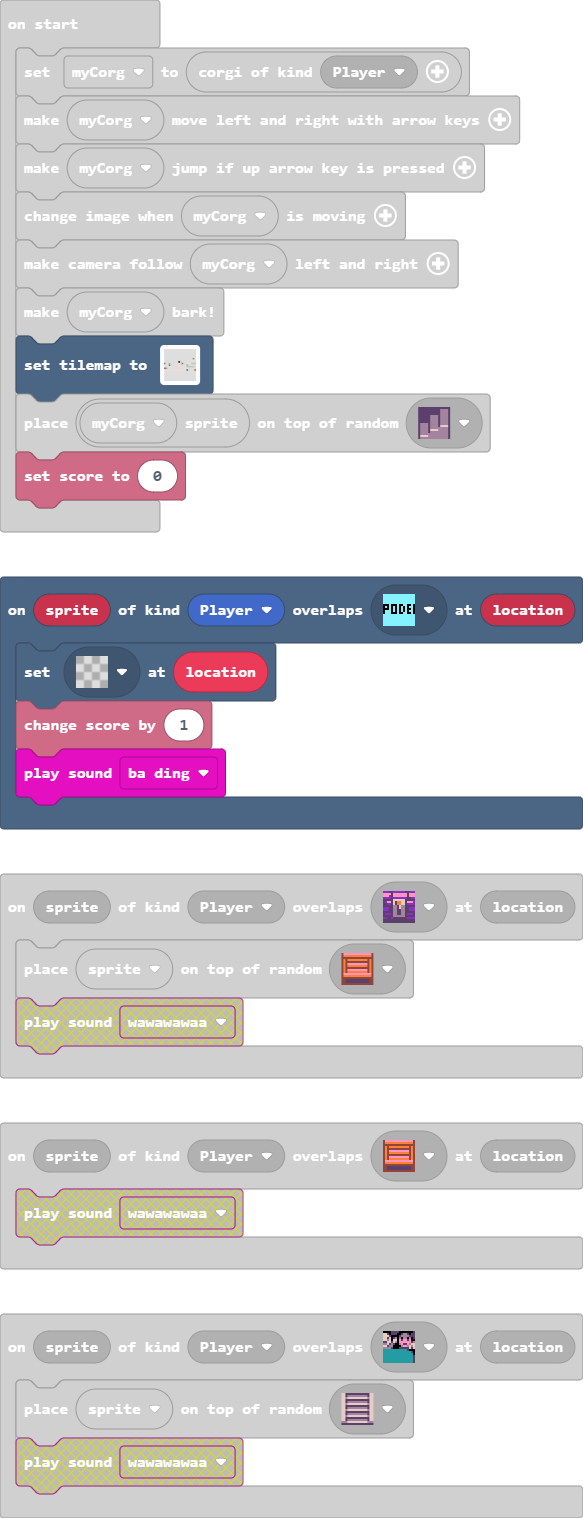
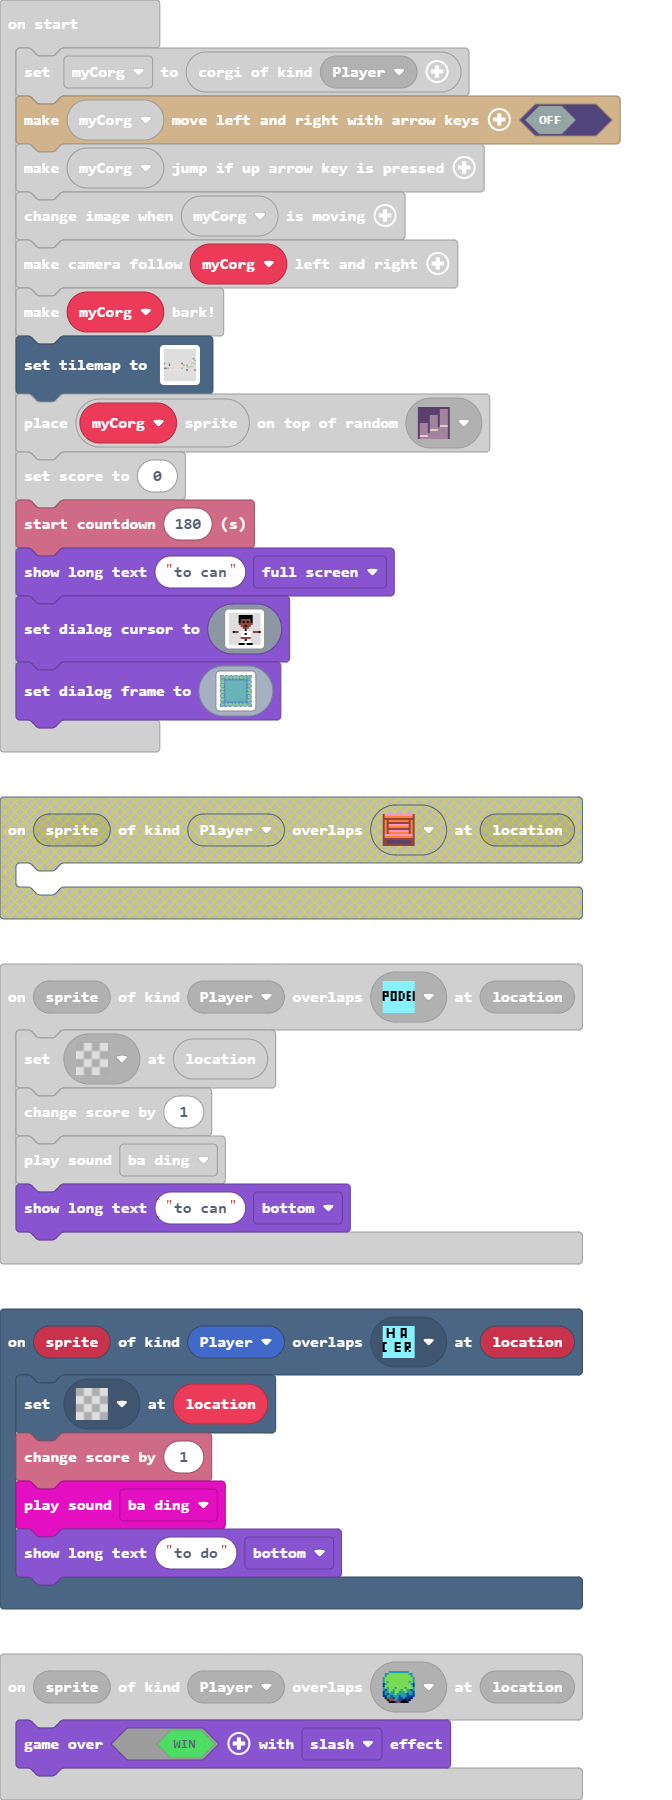
Update main.blocks, main.ts, tilemap.g.jres, tilemap.g.ts

diff --git a/main.ts b/main.ts
@@ -1,8 +1,11 @@
-scene.onOverlapTile(SpriteKind.Player, sprites.dungeon.stairLadder, function (sprite, location) {
-	
+scene.onOverlapTile(SpriteKind.Player, myTiles.tile2, function (sprite, location) {
+    tiles.setTileAt(location, myTiles.transparency16)
+    info.changeScoreBy(1)
+    music.baDing.play()
+    game.showLongText("to do", DialogLayout.Bottom)
 })
 scene.onOverlapTile(SpriteKind.Player, sprites.builtin.forestTiles0, function (sprite, location) {
-    game.over(true, effects.smiles)
+    game.over(true, effects.slash)
 })
 scene.onOverlapTile(SpriteKind.Player, sprites.dungeon.purpleSwitchUp, function (sprite, location) {
     tiles.placeOnRandomTile(sprite, sprites.dungeon.stairLadder)
@@ -11,6 +14,7 @@ scene.onOverlapTile(SpriteKind.Player, myTiles.tile1, function (sprite, location
     tiles.setTileAt(location, myTiles.transparency16)
     info.changeScoreBy(1)
     music.baDing.play()
+    game.showLongText("to can", DialogLayout.Bottom)
 })
 scene.onOverlapTile(SpriteKind.Player, sprites.builtin.crowd1, function (sprite, location) {
     tiles.placeOnRandomTile(sprite, sprites.dungeon.stairNorth)
@@ -21,7 +25,7 @@ myCorg.verticalMovement()
 myCorg.updateSprite()
 myCorg.follow()
 myCorg.bark()
[2 lines of base64/hex data omitted]
     . . . . . . . . . . . . . . . . . . . 2 
     . . . . . . . . . . . . . . . 2 2 2 2 . 
     . . . . . . . . . . . . . . 2 2 . . . . 
@@ -30,6 +34,76 @@ tiles.setTilemap(tiles.createTilemap(hex`140008000000000000000000000000000000000
     2 2 2 2 2 . . . 2 2 2 2 2 2 2 2 2 2 2 . 
     . . . . . . 2 . . . . . 2 2 . . . . . . 
     2 2 2 2 2 2 2 2 2 2 2 2 2 2 . . . . . 2 
-    `, [myTiles.tile0,sprites.builtin.brick,sprites.builtin.forestTiles0,sprites.dungeon.stairLarge,sprites.castle.rock0,sprites.castle.shrub,sprites.dungeon.stairLadder,myTiles.transparency16,sprites.dungeon.purpleSwitchUp,sprites.dungeon.stairNorth,sprites.builtin.crowd1,myTiles.tile1,sprites.castle.tilePath9], TileScale.Sixteen))
+    `, [myTiles.tile0,sprites.builtin.brick,sprites.builtin.forestTiles0,sprites.dungeon.stairLarge,sprites.castle.rock0,sprites.castle.shrub,sprites.dungeon.stairLadder,sprites.dungeon.purpleSwitchUp,sprites.dungeon.stairNorth,sprites.builtin.crowd1,myTiles.tile1,sprites.castle.tilePath9,myTiles.tile2], TileScale.Sixteen))
 tiles.placeOnRandomTile(myCorg.sprite, sprites.dungeon.stairLarge)
 info.setScore(0)
+info.startCountdown(180)
+game.showLongText("to can", DialogLayout.Full)
+game.setDialogCursor(img`
+    . . . . . . . . . . . . . . . . 
+    . . . . . f f f f f f f . . . . 
+    . . . . . f f f f f f f . . . . 
+    . . . . . f e e e e e f . . . . 
+    . . . . . f e f e f e f . . . . 
+    . . . . . e e e e e e e . . . . 
+    . . . . . . e e f e e . . . . . 
+    . . . . . . . e e e . . . . . . 
+    . . . . . . . 1 f 1 . . . . . . 
+    . . f e e 1 1 1 1 1 1 1 e e e f 
+    . . . . . . 1 1 f 1 1 . . . . . 
+    . . . . . . 1 1 1 1 1 . . . . . 
+    . . . . . . e e e e e . . . . . 
+    . . . . . . 1 1 f 1 1 . . . . . 
+    . . . . . . 1 1 1 1 1 . . . . . 
+    . . . . . f f f . f f f . . . . 
+    `)
+game.setDialogFrame(img`
+    8 8 8 8 . . . . . 8 8 . . . . 8 8 8 . . . . 8 8 . 8 8 . . . . 8 8 8 . . . . 8 8 8 . . . 8 8 8 8 
+    8 6 7 7 8 8 . . 8 7 6 8 . . 8 6 7 6 8 . . 8 6 7 8 7 6 8 . . 8 6 7 6 8 . . 8 6 7 8 . 8 8 7 7 6 8 
+    8 7 6 7 7 6 8 . 8 7 7 7 8 8 6 7 6 7 6 8 8 7 7 7 8 7 7 7 8 8 6 7 6 7 6 8 8 7 7 7 8 8 6 7 7 6 7 8 
+    8 7 7 6 7 7 6 8 6 7 6 7 7 8 7 7 6 7 7 8 7 7 6 7 6 7 6 7 7 8 7 7 6 7 7 8 7 7 6 7 8 6 7 7 6 7 7 8 
+    . 8 7 7 8 7 6 6 6 7 7 6 7 8 7 7 6 7 7 8 7 6 7 7 6 7 7 6 7 8 7 7 6 7 7 8 7 6 7 7 8 6 7 8 7 7 8 . 
+    . 8 6 7 7 8 6 6 8 6 7 6 6 8 6 7 6 7 6 8 6 6 7 6 8 6 7 6 6 8 6 7 6 7 6 8 6 6 7 6 6 6 8 7 7 6 8 . 
+    . . 8 6 6 6 8 6 8 8 6 7 6 8 8 6 8 6 8 8 6 7 6 8 8 8 6 7 6 8 8 6 8 6 8 8 6 7 6 8 6 8 6 6 6 8 . . 
+    . 8 8 8 6 6 6 8 8 8 8 8 8 8 8 8 8 8 8 8 8 8 8 8 8 8 8 8 8 8 8 8 8 8 8 8 8 8 8 8 8 6 6 6 8 8 . . 
+    8 7 7 7 7 6 8 8 6 6 6 6 6 6 6 6 6 6 6 6 6 6 6 6 6 6 6 6 6 6 6 6 6 6 6 6 6 6 6 6 8 8 8 6 6 8 8 . 
+    8 6 7 6 7 7 6 8 6 6 6 6 6 6 6 6 6 6 6 6 6 6 6 6 6 6 6 6 6 6 6 6 6 6 6 6 6 6 6 6 8 8 6 7 7 7 7 8 
+    . 8 7 7 6 6 7 8 6 6 6 6 6 6 6 6 6 6 6 6 6 6 6 6 6 6 6 6 6 6 6 6 6 6 6 6 6 6 6 6 8 6 7 7 6 7 6 8 
+    . . 8 7 7 6 6 8 6 6 6 6 6 6 6 6 6 6 6 6 6 6 6 6 6 6 6 6 6 6 6 6 6 6 6 6 6 6 6 6 8 7 6 6 7 7 8 . 
+    . . 8 8 8 8 8 8 6 6 6 6 6 6 6 6 6 6 6 6 6 6 6 6 6 6 6 6 6 6 6 6 6 6 6 6 6 6 6 6 8 6 6 7 7 8 . . 
+    . 8 6 7 7 6 8 8 6 6 6 6 6 6 6 6 6 6 6 6 6 6 6 6 6 6 6 6 6 6 6 6 6 6 6 6 6 6 6 6 8 8 8 8 8 8 . . 
+    8 6 7 7 7 7 6 8 6 6 6 6 6 6 6 6 6 6 6 6 6 6 6 6 6 6 6 6 6 6 6 6 6 6 6 6 6 6 6 6 8 8 6 7 7 6 8 . 
+    8 7 6 6 6 6 8 8 6 6 6 6 6 6 6 6 6 6 6 6 6 6 6 6 6 6 6 6 6 6 6 6 6 6 6 6 6 6 6 6 8 6 7 7 7 7 6 8 
+    8 6 7 7 7 7 6 8 6 6 6 6 6 6 6 6 6 6 6 6 6 6 6 6 6 6 6 6 6 6 6 6 6 6 6 6 6 6 6 6 8 8 6 6 6 6 7 8 
+    . 8 6 7 7 6 8 8 6 6 6 6 6 6 6 6 6 6 6 6 6 6 6 6 6 6 6 6 6 6 6 6 6 6 6 6 6 6 6 6 8 6 7 7 7 7 6 8 
+    . . 8 8 8 8 8 8 6 6 6 6 6 6 6 6 6 6 6 6 6 6 6 6 6 6 6 6 6 6 6 6 6 6 6 6 6 6 6 6 8 8 6 7 7 6 8 . 
+    . . 8 7 7 6 8 8 6 6 6 6 6 6 6 6 6 6 6 6 6 6 6 6 6 6 6 6 6 6 6 6 6 6 6 6 6 6 6 6 8 8 8 8 8 8 . . 
+    . 8 7 7 6 6 7 8 6 6 6 6 6 6 6 6 6 6 6 6 6 6 6 6 6 6 6 6 6 6 6 6 6 6 6 6 6 6 6 6 8 6 6 7 7 8 . . 
+    8 6 7 6 7 7 6 8 6 6 6 6 6 6 6 6 6 6 6 6 6 6 6 6 6 6 6 6 6 6 6 6 6 6 6 6 6 6 6 6 8 7 6 6 7 7 8 . 
+    8 7 7 7 7 6 8 8 6 6 6 6 6 6 6 6 6 6 6 6 6 6 6 6 6 6 6 6 6 6 6 6 6 6 6 6 6 6 6 6 8 6 7 7 6 7 6 8 
+    . 8 8 6 6 8 8 8 6 6 6 6 6 6 6 6 6 6 6 6 6 6 6 6 6 6 6 6 6 6 6 6 6 6 6 6 6 6 6 6 8 8 6 7 7 7 7 8 
+    8 7 7 7 7 6 8 8 6 6 6 6 6 6 6 6 6 6 6 6 6 6 6 6 6 6 6 6 6 6 6 6 6 6 6 6 6 6 6 6 8 8 8 6 6 8 8 . 
+    8 6 7 6 7 7 6 8 6 6 6 6 6 6 6 6 6 6 6 6 6 6 6 6 6 6 6 6 6 6 6 6 6 6 6 6 6 6 6 6 8 8 6 7 7 7 7 8 
+    . 8 7 7 6 6 7 8 6 6 6 6 6 6 6 6 6 6 6 6 6 6 6 6 6 6 6 6 6 6 6 6 6 6 6 6 6 6 6 6 8 6 7 7 6 7 6 8 
+    . . 8 7 7 6 6 8 6 6 6 6 6 6 6 6 6 6 6 6 6 6 6 6 6 6 6 6 6 6 6 6 6 6 6 6 6 6 6 6 8 7 6 6 7 7 8 . 
+    . . 8 8 8 8 8 8 6 6 6 6 6 6 6 6 6 6 6 6 6 6 6 6 6 6 6 6 6 6 6 6 6 6 6 6 6 6 6 6 8 6 6 7 7 8 . . 
+    . 8 6 7 7 6 8 8 6 6 6 6 6 6 6 6 6 6 6 6 6 6 6 6 6 6 6 6 6 6 6 6 6 6 6 6 6 6 6 6 8 8 8 8 8 8 . . 
+    8 6 7 7 7 7 6 8 6 6 6 6 6 6 6 6 6 6 6 6 6 6 6 6 6 6 6 6 6 6 6 6 6 6 6 6 6 6 6 6 8 8 6 7 7 6 8 . 
+    8 7 6 6 6 6 8 8 6 6 6 6 6 6 6 6 6 6 6 6 6 6 6 6 6 6 6 6 6 6 6 6 6 6 6 6 6 6 6 6 8 6 7 7 7 7 6 8 
+    8 6 7 7 7 7 6 8 6 6 6 6 6 6 6 6 6 6 6 6 6 6 6 6 6 6 6 6 6 6 6 6 6 6 6 6 6 6 6 6 8 8 6 6 6 6 7 8 
+    . 8 6 7 7 6 8 8 6 6 6 6 6 6 6 6 6 6 6 6 6 6 6 6 6 6 6 6 6 6 6 6 6 6 6 6 6 6 6 6 8 6 7 7 7 7 6 8 
+    . . 8 8 8 8 8 8 6 6 6 6 6 6 6 6 6 6 6 6 6 6 6 6 6 6 6 6 6 6 6 6 6 6 6 6 6 6 6 6 8 8 6 7 7 6 8 . 
+    . . 8 7 7 6 6 8 6 6 6 6 6 6 6 6 6 6 6 6 6 6 6 6 6 6 6 6 6 6 6 6 6 6 6 6 6 6 6 6 8 8 8 8 8 8 . . 
+    . 8 7 7 6 6 7 8 6 6 6 6 6 6 6 6 6 6 6 6 6 6 6 6 6 6 6 6 6 6 6 6 6 6 6 6 6 6 6 6 8 6 6 7 7 8 . . 
+    8 6 7 6 7 7 6 8 6 6 6 6 6 6 6 6 6 6 6 6 6 6 6 6 6 6 6 6 6 6 6 6 6 6 6 6 6 6 6 6 8 7 6 6 7 7 8 . 
+    8 7 7 7 7 6 8 8 6 6 6 6 6 6 6 6 6 6 6 6 6 6 6 6 6 6 6 6 6 6 6 6 6 6 6 6 6 6 6 6 8 6 7 7 6 7 6 8 
+    . 8 8 6 6 8 8 8 6 6 6 6 6 6 6 6 6 6 6 6 6 6 6 6 6 6 6 6 6 6 6 6 6 6 6 6 6 6 6 6 8 8 6 7 7 7 7 8 
+    . . 8 8 6 6 6 8 8 8 8 8 8 8 8 8 8 8 8 8 8 8 8 8 8 8 8 8 8 8 8 8 8 8 8 8 8 8 8 8 8 6 6 6 8 8 8 . 
+    . . 8 6 6 6 8 6 8 6 7 6 8 8 6 8 6 8 8 6 7 6 8 8 8 6 7 6 8 8 6 8 6 8 8 6 7 6 8 8 6 8 6 6 6 8 . . 
+    . 8 6 7 7 8 6 6 6 7 6 6 8 6 7 6 7 6 8 6 6 7 6 8 6 7 6 6 8 6 7 6 7 6 8 6 6 7 6 8 6 6 8 7 7 6 8 . 
+    . 8 7 7 8 7 6 8 7 7 6 7 8 7 7 6 7 7 8 7 6 7 7 6 7 7 6 7 8 7 7 6 7 7 8 7 6 7 7 6 6 6 7 8 7 7 8 . 
+    8 7 7 6 7 7 6 8 7 6 7 7 8 7 7 6 7 7 8 7 7 6 7 6 7 6 7 7 8 7 7 6 7 7 8 7 7 6 7 6 8 6 7 7 6 7 7 8 
+    8 7 6 7 7 6 8 8 7 7 7 8 8 6 7 6 7 6 8 8 7 7 7 8 7 7 7 8 8 6 7 6 7 6 8 8 7 7 7 8 . 8 6 7 7 6 7 8 
+    8 6 7 7 8 8 . 8 7 6 8 . . 8 6 7 6 8 . . 8 6 7 8 7 6 8 . . 8 6 7 6 8 . . 8 6 7 8 . . 8 8 7 7 6 8 
+    8 8 8 8 . . . 8 8 8 . . . . 8 8 8 . . . . 8 8 . 8 8 . . . . 8 8 8 . . . . 8 8 . . . . . 8 8 8 8 
+    `)

diff --git a/tilemap.g.ts b/tilemap.g.ts
@@ -6,6 +6,10 @@ namespace myTiles {
     export const tile0 = image.ofBuffer(hex``);
     //% fixedInstance jres blockIdentity=images._tile
     export const tile1 = image.ofBuffer(hex``);
+    //% fixedInstance jres blockIdentity=images._tile
+    export const tile2 = image.ofBuffer(hex``);
+    //% fixedInstance jres blockIdentity=images._tile
+    export const tile3 = image.ofBuffer(hex``);
 
 }
 // Auto-generated code. Do not edit.
